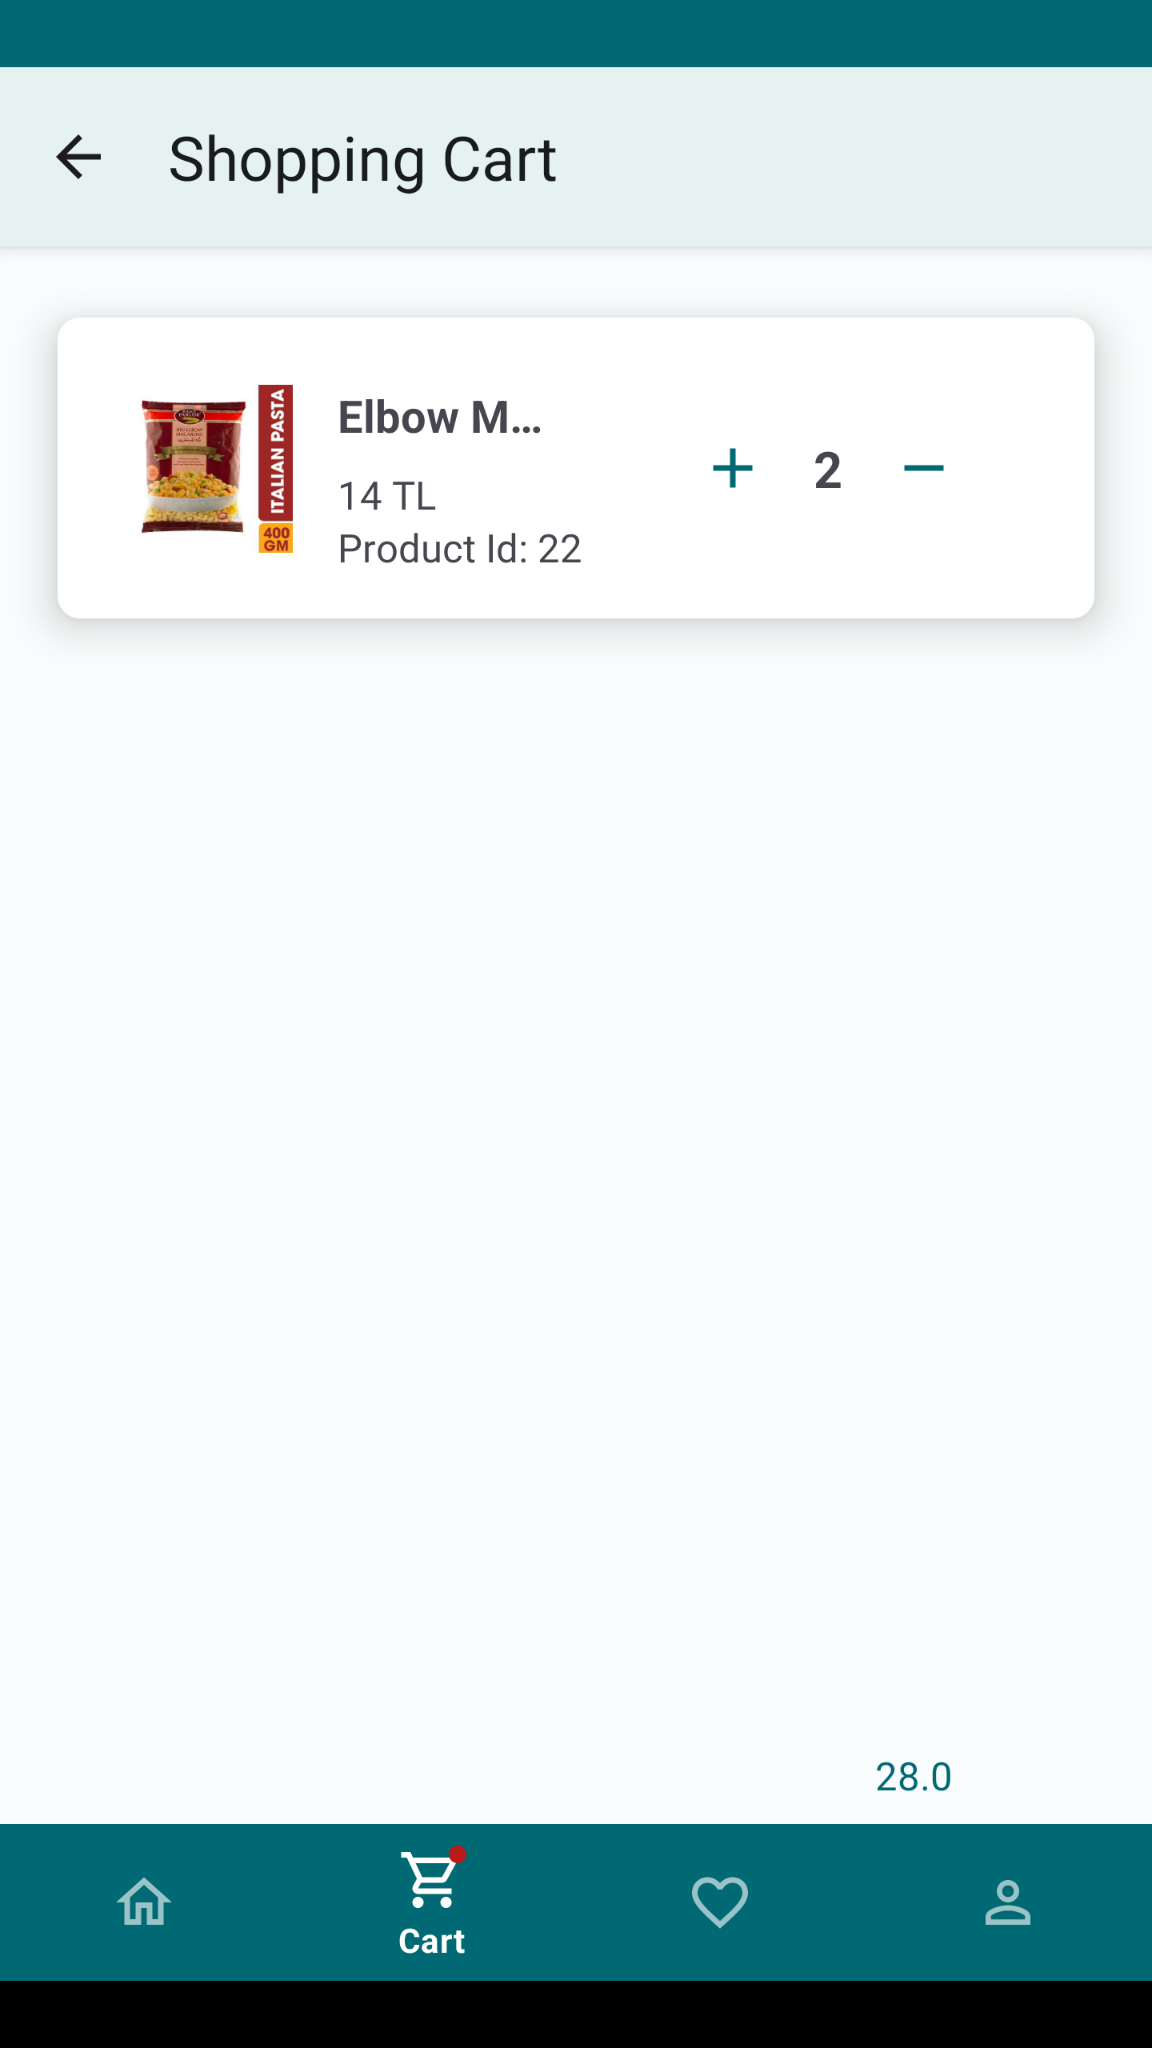
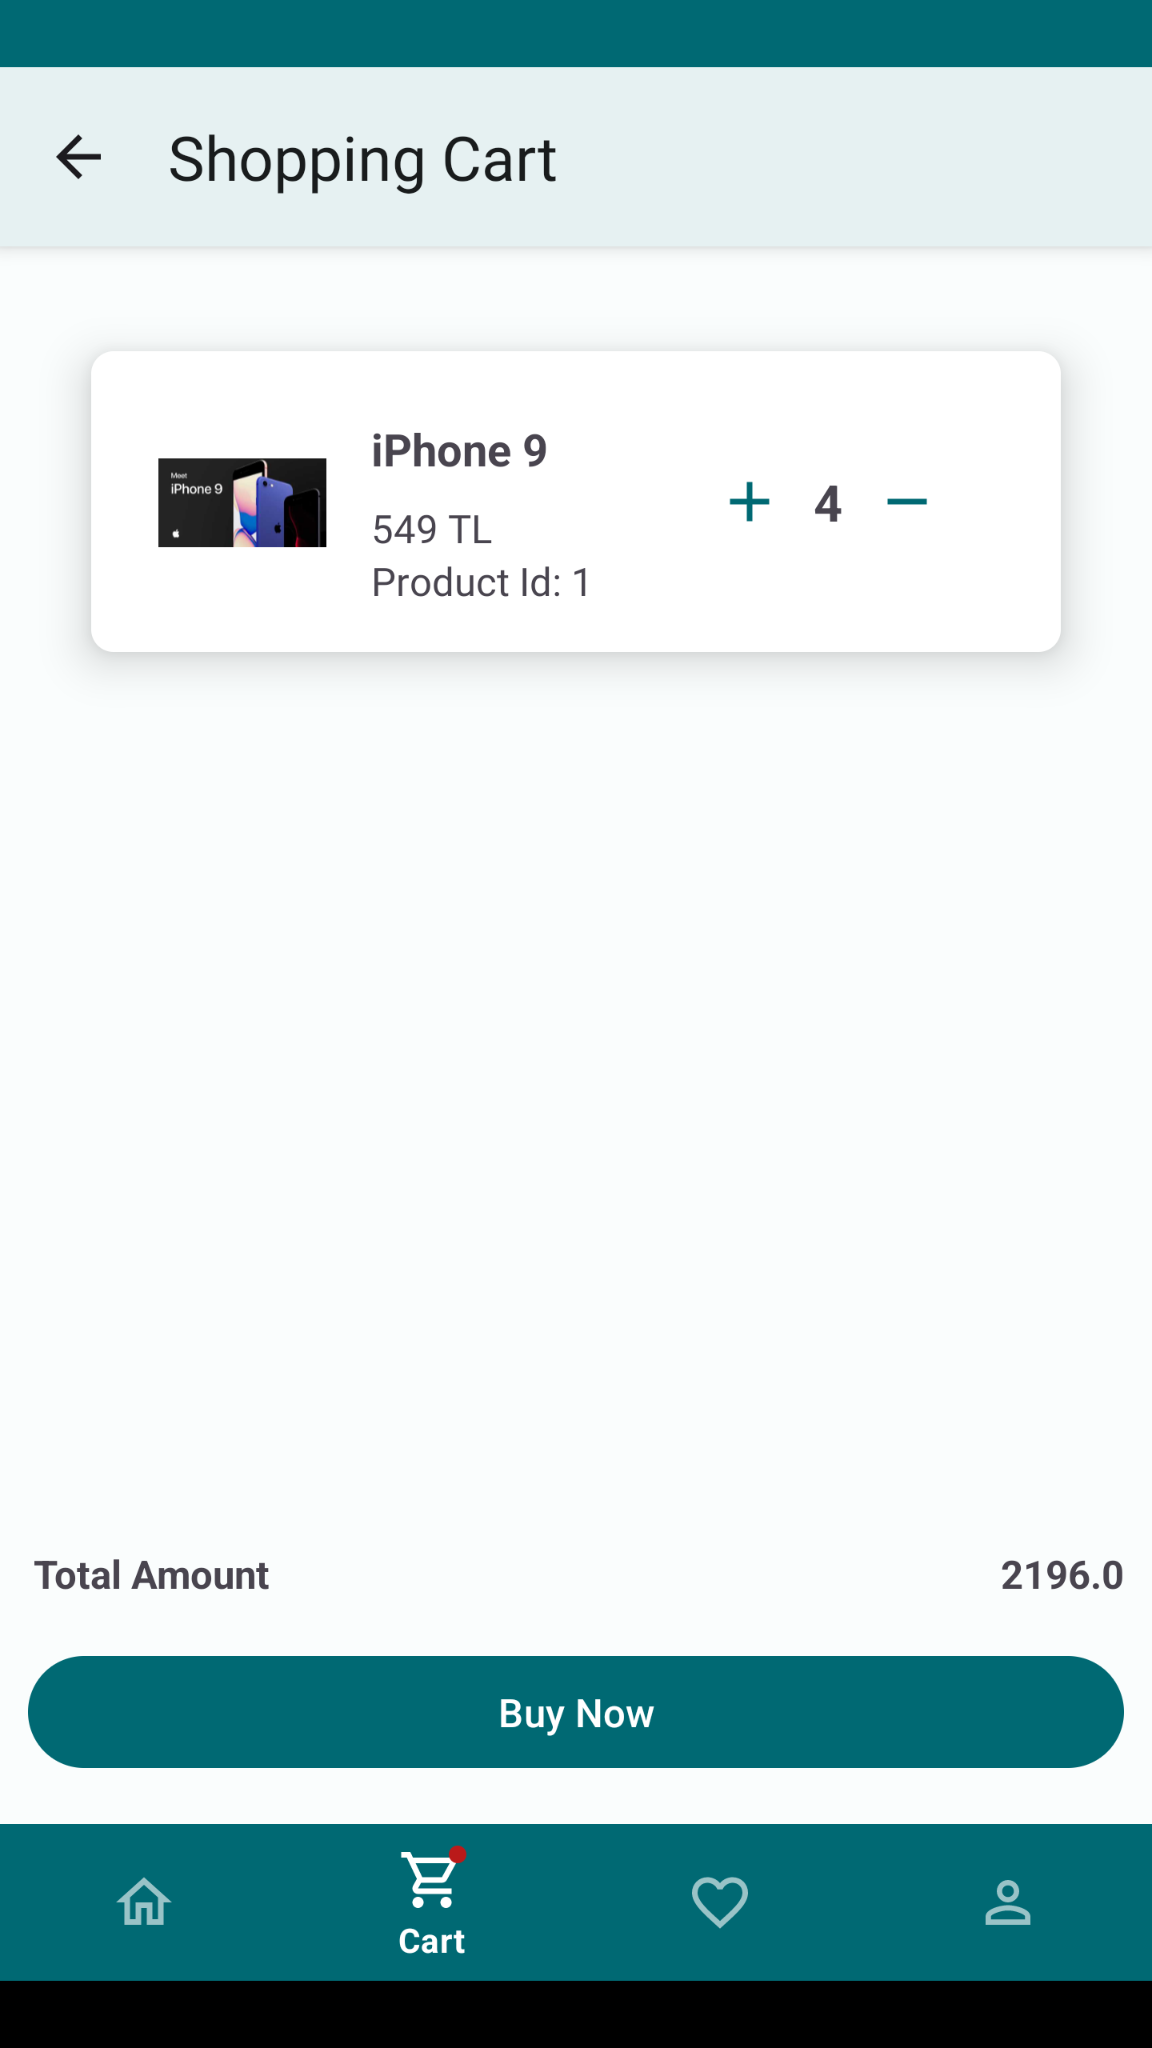
cart fragment: buy now button implemented

diff --git a/app/src/main/java/com/mustafaunlu/ecommerce/ui/cart/CartFragment.kt b/app/src/main/java/com/mustafaunlu/ecommerce/ui/cart/CartFragment.kt
@@ -55,12 +55,16 @@ class CartFragment : Fragment() {
         super.onViewCreated(view, savedInstanceState)
         checkInternetConnection()
         setupObserver()
+
+        binding.btnBuyNow.setOnClickListener {
+            requireView().showToast("Under development")
+        }
     }
 
     private fun setupObserver() {
         viewModel.totalPriceLiveData.observe(viewLifecycleOwner) { totalPrice ->
             this.totalPrice = totalPrice.toString()
-            binding.cartFragmentTotalPrice.text = totalPrice.toString()
+            binding.tvTotalAmount.text = totalPrice.toString()
         }
 
         viewModel.userCarts.observe(viewLifecycleOwner) { userCartState ->
@@ -74,7 +78,7 @@ class CartFragment : Fragment() {
                 is ScreenState.Success -> {
                     binding.cartProgressBar.gone()
                     adapter.submitList(userCartState.uiData)
-                    binding.cartFragmentRv.adapter = adapter
+                    binding.rvCartProducts.adapter = adapter
                 }
             }
         }
@@ -96,7 +100,7 @@ class CartFragment : Fragment() {
             val newList = adapter.currentList.filter { it.productId != userCartUiData.productId }
             adapter.submitList(newList)
             totalPrice = calculateTotalPrice(newList).toString()
-            binding.cartFragmentTotalPrice.text = totalPrice
+            binding.tvTotalAmount.text = totalPrice
             requireView().showToast(getString(R.string.shopping_list_item_deleted_txt))
             if (newList.isEmpty()) {
                 viewModel.setBadgeState(
